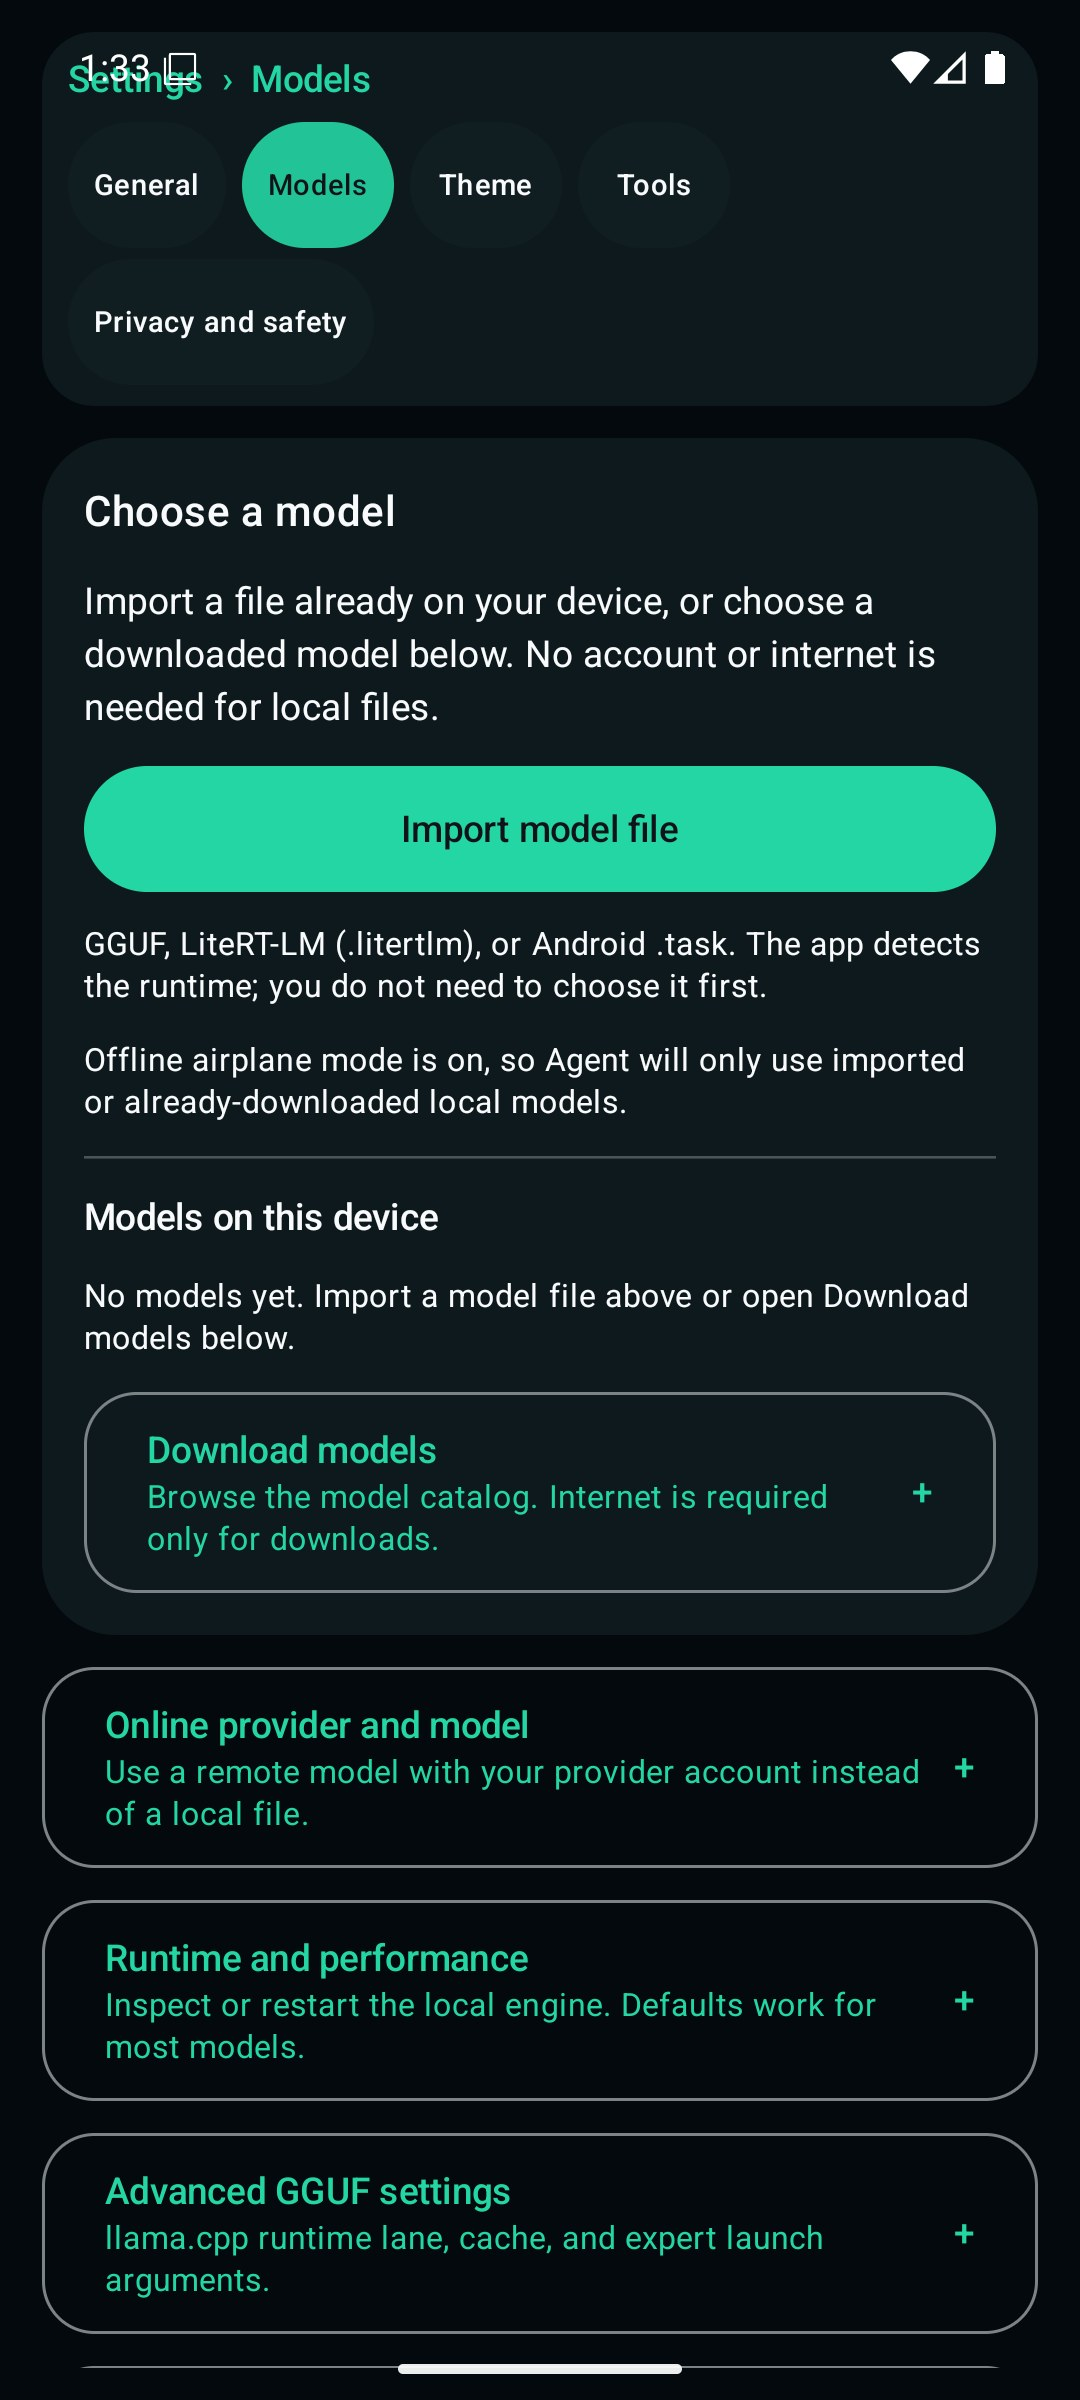
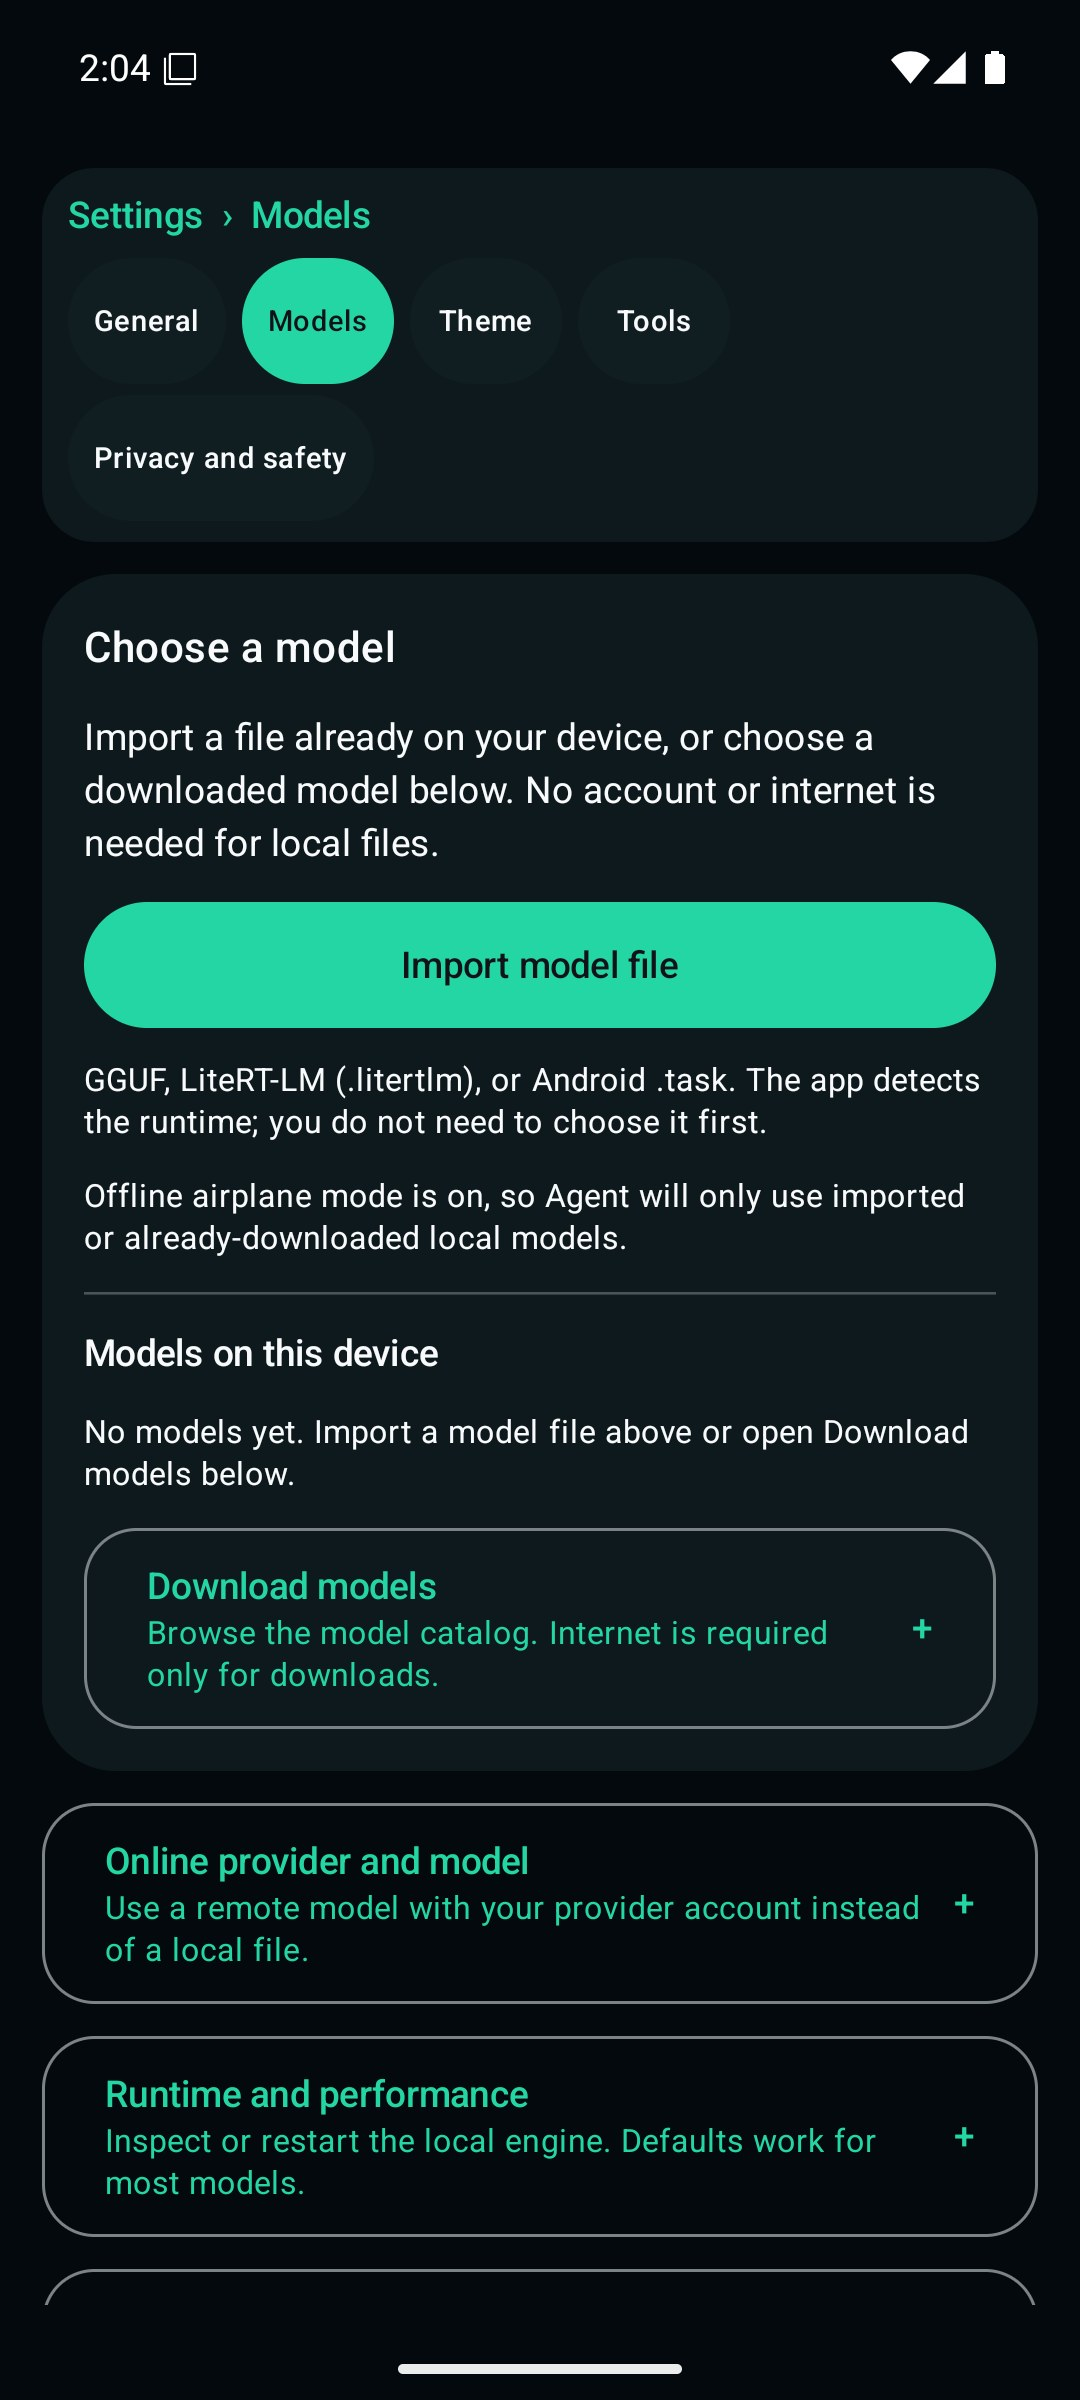
test(android): record Agent validation and refresh sanitized store captures

diff --git a/tests/hermes_android/test_android_packaging.py b/tests/hermes_android/test_android_packaging.py
@@ -212,7 +212,8 @@ def test_android_launcher_uses_adaptive_icons():
     assert 'android:fillColor="#FFFFFFFF"' in monochrome
     assert "FDIE" not in foreground
     assert 'android:fillColor="#FF000000"' not in monochrome
-    assert "M54,21a33,33" in foreground
+    assert "M54,29L77,77" in foreground
+    assert 'android:fillType="evenOdd"' in foreground
     assert "M28,82h52" not in app_logo
     assert "M34,86h5" not in app_logo
 

diff --git a/docs/validation/agent-model-settings-20260925.md b/docs/validation/agent-model-settings-20260925.md
@@ -1,0 +1,66 @@
+# Agent model settings, import and branding validation
+
+## Review scope and source
+
+This candidate addresses Android model import issue #21 and presentation/branding issue #20 in `adybag14-cyber/hermes-agent`. The application is **Agent**. It is an independent fork, not an official or endorsed Nous Research product. PR #22 targets `codex/termux-five-goals`.
+
+The tested runtime source is **21c9354eb701f175f7ff29f9d65f91b8b2ab6c7e**. Later commits in this PR add the final sanitized store screenshots, a packaging-assertion update, and this report; they do not change the APK runtime. This is a development candidate, not release certification. Machine-readable counts, source/capture hashes and artifact identity are in [the results JSON](agent-model-settings-20260925-results.json).
+
+## Delivered behavior
+
+**Choose a model first.** Settings > Models opens with local selection/import and installed models. The system document picker accepts providers that report an unknown MIME type, requests readable/openable documents, and allows GGUF, LiteRT-LM `.litertlm`, and Android `.task` files. Local import requires neither an account nor network access, including when offline mode is enabled. Importing does not force an engine selection; the model's Use & Start flow selects the runtime and retains independent format, compatibility and memory checks.
+
+**Safer file handling.** Imports copy into a non-discoverable `.part` file, sync it and publish by same-directory rename. Slow provider reads occur outside the model-file publication lock. Duplicate naming and record publication use the narrow lock; persistence failures roll back the copied model before discovery can see a failed publication. Original provider files are never deleted. Cancellation before selection does nothing, and transient URI access is not unnecessarily persisted. This is not a claim of a single ACID transaction across file storage and preferences: abrupt process death can leave an ignored staging file.
+
+**Simpler, accessible settings.** Online downloads/providers, response preferences, runtime, advanced GGUF controls and local sharing use labelled expandable sections. The fixed tab bar reserves space outside the scrolling viewport, so it cannot cover controls brought into view by keyboard/accessibility/test scrolling. Reselecting Models returns to its first action. Controls retain touch targets, selected-state semantics, expanded/collapsed descriptions, progress announcements and explicit removal confirmation. Settings propagates its selected language to nested controls immediately; English, Chinese, Spanish, German, Portuguese and French are verified.
+
+**Independent Android presentation.** Installed labels, shell, boot screen, notifications, service/permission text, widget, navigation icon, floating control and current store listing use Agent and an independent A mark. Native chat and the embedded Android Python assistant use the Agent default identity, while explicit user personas remain unchanged. New Agent command phrases preserve the old aliases and existing authority/permission checks.
+
+The installed application ID, Android component identities, package/class names, persisted keys, URI authorities, protocol headers and historical release records are deliberately not globally renamed. Copyright, MIT licensing and accurate upstream attribution remain. The hosted repository and upstream CLI technical identity were not renamed. See [BRANDING.md](../../BRANDING.md). The implementation does not establish that an external F-Droid/trademark complaint is closed.
+
+**LiteRT-LM.** The Android dependency is pinned to **0.17.1**, verified as stable by the repository's live Google Maven version checker during this task. API compilation and packaging passed; neither compilation nor emulator UI tests certify inference for any particular model.
+
+## Build provenance
+
+The build used the retained F-Droid buildserver image recorded in the results JSON, JDK 21, Python 3.13, Android SDK 36 and verified native SDK inputs. The retained Python source bundle was verified against both current requirements/lock hashes and its file inventory. The complete debug APK includes arm64-v8a and x86_64 native libraries and was built with `skipHermesAndroidLinuxAssets=false`. No placeholder dependencies or native-asset bypass were introduced.
+
+The unit-test harness fetched the genuine Robolectric API 31 artifact from Maven Central and checked its published SHA512 before sandbox execution. Python process-cleanup tests ran under `tini -s`, rather than an unreaping sleep process as container init. These environment repairs did not exclude failing tests. The Python runner's optional Git bytecode-precompile probe printed that the exported source directory was not a Git worktree; the archive/overlay source manifests provide provenance, and all 59 test-file subprocesses completed.
+
+## Final validation
+
+| Check | Result |
+| --- | --- |
+| Full debug APK and Android test APK | Built successfully with real native and Python assets |
+| Play edition Kotlin compilation | Passed |
+| JVM / Robolectric / Compose suite | **1,044 tests; 112 suites; 0 failures; 0 errors; 0 skipped** |
+| Android Python suite | **59 files; 889 passed; 0 failed; 1 skipped** |
+| Full lint | **0 errors, 0 fatal issues; 57 warnings** |
+| Play lint | **0 errors, 0 fatal issues; 60 warnings** |
+| Installed Android 36 x86_64 instrumentation | **3 tests passed**, explicit `OK (3 tests)` |
+| Store images | Ten new 1080 x 2400 captures; metadata sanitizer checks passed |
+| Whitespace validation | `git diff --check` passed |
+
+The three device-side tests cover real offline DocumentsUI opening and cancellation; model-first/repeated-tab navigation with exact model heading/import-label assertions in all six languages; and advanced settings validation, cache/runtime choices, invalid argument handling and one-shot RAM-consent cancellation in all six languages. Tests use actual rendered controls, not replacement business logic. A regression additionally checks that the scrolled advanced choice is below the fixed navigation area and remains clickable.
+
+The final corrected header was visually spot-checked for status-bar separation. All ten captures are real installed-APK screenshots with dimensions and SHA256 hashes recorded, but this report does **not** claim a manual visual audit of every screen or physical TalkBack certification.
+
+## Startup qualification and remaining gates
+
+An intermediate debug reinstall/instrumentation launch failed before any tests ran. Android recorded a startup ANR; its trace placed the main thread in ART DEX verification before application code, while the emulator reported heavy runnable load. The retained evidence is not erased or reported as a pass. Final instrumentation succeeded after normal ART preparation of both packages with `cmd package compile -m speed -f`; no verifier bypass was used. This does not prove the ANR was solely caused by host load or establish a cold-start fix.
+
+Physical checks remain with the owner: fresh launch after installation/reboot without special ART preparation; local picker behavior and a real GGUF inference session; LiteRT-LM model loading; interrupted imports, storage limits and duplicate filenames; screen-reader/large-text navigation; thermal/memory behavior; and production-signed upgrade/data retention. No physical device, ARM64 inference or GPU performance qualification was performed.
+
+## APK handoff
+
+The verified candidate is saved in the Devbox user's Downloads folder as:
+
+`Agent-21c9354eb7-debug.apk`
+
+- Application label: **Agent**; application ID: `com.mobilefork.hermesagent`.
+- Version name **0.13.146**, version code **144690**, minimum API **24**, target API **36**.
+- Size **478,373,933 bytes**; native ABIs **arm64-v8a** and **x86_64**.
[1 lines of base64/hex data omitted]
+
+This is a **debug candidate**, not a production-signed update. Existing release installations may reject it because of signing or version compatibility. Do not uninstall a working installation merely to bypass that protection; use a spare test device or a properly signed upgrade candidate. Creating another Android user/profile does not bypass package signature constraints.
+
+No release tag, store publication, merge, issue closure or production-service deployment was performed. GitHub CI must be read at the final PR revision independently of the local validation above.
